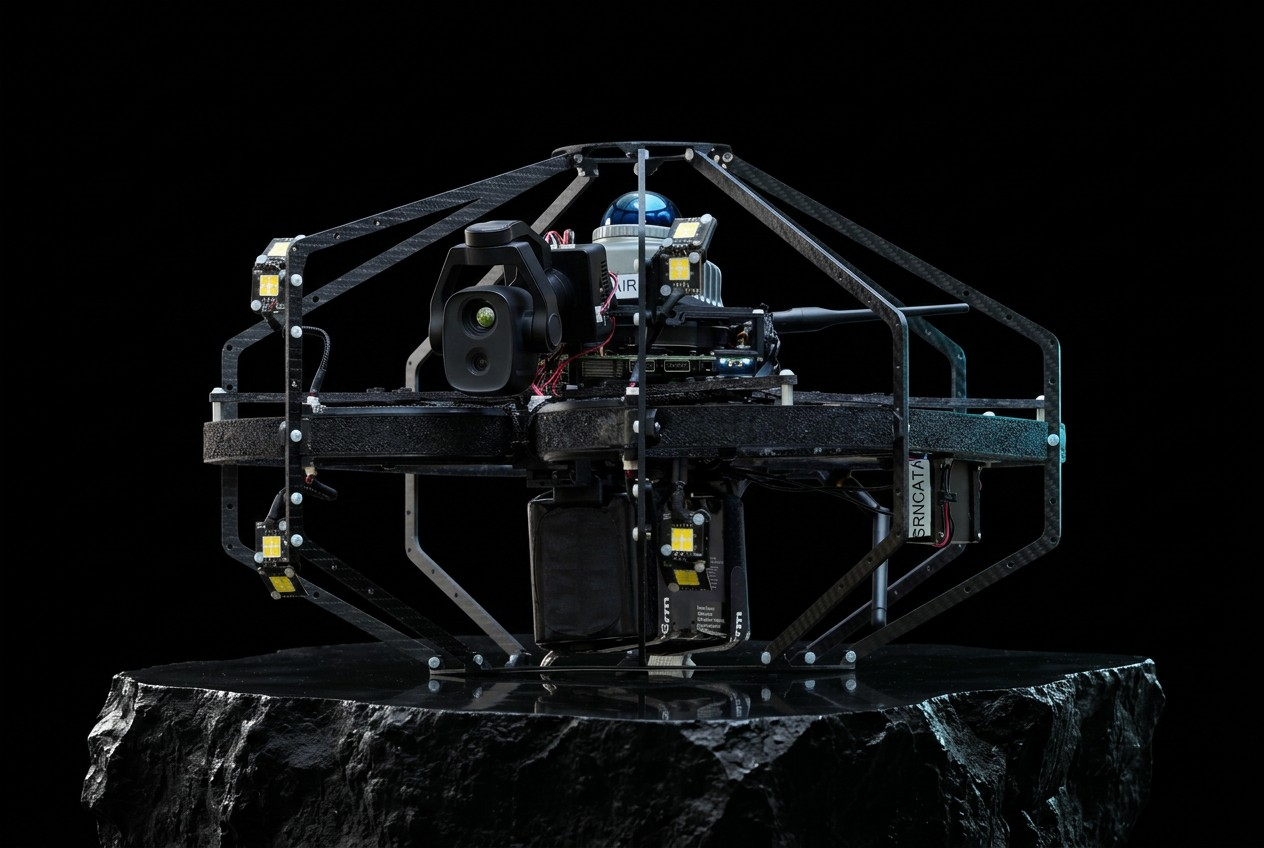
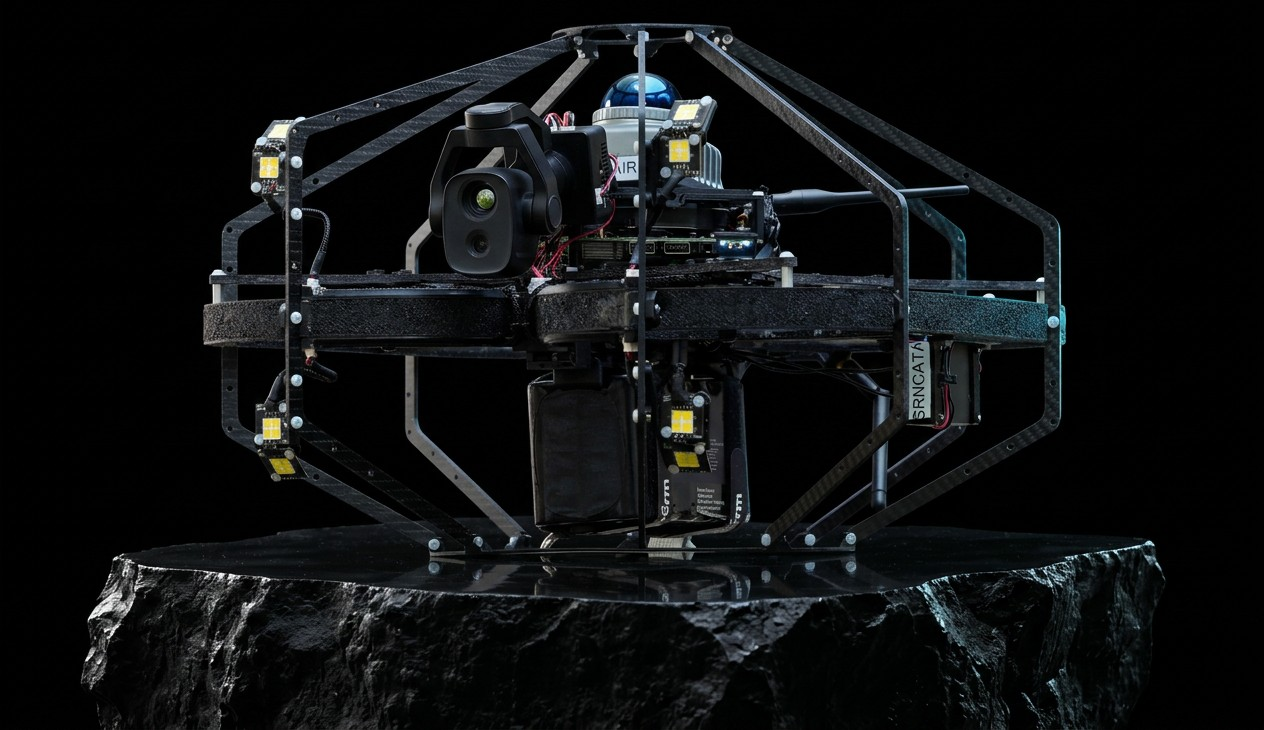
RoboAid LP: packshot oriznuty nad vrcholkem klece, dron vetsi
Fotka zepredu mela nad dronem 141 px cerne, oriznuto na 1264x730 tesne
nad spickou klece. Dron je 78 vw (max 1120 px), vyska stropovana na
67 vh; vety vyjizdeji 31 vh nad stred, aby se nedotykaly horni hrany
okna ani klece.

Changed region(s): [[0.0617, 0.0301, 0.9256, 0.9945]]

diff --git a/public/nahledy/roboaid-x4k7/index.html b/public/nahledy/roboaid-x4k7/index.html
@@ -88,13 +88,13 @@
      průhlednost počítá JS z postupu scrollu, takže to jede plynule s prstem, ne skokem. */
   #slib{padding:0;background:#000;height:480vh}
   #slib .stick{position:sticky;top:0;height:100vh;overflow:hidden}
-  /* Kámen sedí spodní hranou přesně na spodní hraně okna (fotka končí hranou kamene,
-     změřeno: poslední řádek obrázku je kámen). Výška je stropovaná na 66 vh, aby nad
-     dronem zbylo místo pro větu i na nízkém displeji. */
-  #slib .dron{position:absolute;left:50%;bottom:0;width:min(64vw,900px,calc(66vh * 1.49));height:auto;
+  /* Kámen sedí spodní hranou přesně na spodní hraně okna (fotka končí hranou kamene)
+     a nahoře je oříznutá těsně nad vrcholkem klece (1264×730). Výška je stropovaná na
+     67 vh, aby nad dronem zbylo místo pro větu i na nízkém displeji. */
+  #slib .dron{position:absolute;left:50%;bottom:0;width:min(78vw,1120px,calc(67vh * 1.731));height:auto;
     transform:translateX(-50%);z-index:2;pointer-events:none;
     filter:drop-shadow(0 30px 60px rgba(0,0,0,.85))}
-  #slib .stick .ph{position:absolute;left:50%;bottom:0;width:min(64vw,900px,calc(66vh * 1.49));aspect-ratio:3/2;min-height:0;
+  #slib .stick .ph{position:absolute;left:50%;bottom:0;width:min(78vw,1120px,calc(67vh * 1.731));aspect-ratio:1264/730;min-height:0;
     transform:translateX(-50%);z-index:2}
   #slib .veta{position:absolute;left:50%;top:50%;width:min(92vw,1100px);transform:translate(-50%,-50%);
     text-align:center;z-index:1;opacity:0;will-change:transform,opacity;pointer-events:none}
@@ -198,7 +198,7 @@
     .dlaz{grid-template-columns:1fr 1fr}
     .otazky li{grid-template-columns:44px 1fr;}
     .otazky .stav{grid-column:2}
-    #slib .dron{width:min(96vw,calc(60vh * 1.49))}
+    #slib .dron{width:min(96vw,calc(62vh * 1.731))}
     .osoba{grid-template-columns:96px 1fr}
   }
 
@@ -1077,7 +1077,7 @@
         // dráha: zpoza dronu (střed) nahoru nad něj, pak dál a pryč
         // vyjede nad dron (34 vh), tam chvíli stojí, pak ještě kousek povyjede a zmizí
         // dřív, než ho ořízne horní hrana okna
-        const up = t < 0.55 ? easeOut(clamp(t/0.55,0,1)) * 34 : 34 + (t-0.55)/0.45 * 10;   // ve vh
+        const up = t < 0.55 ? easeOut(clamp(t/0.55,0,1)) * 31 : 31 + (t-0.55)/0.45 * 8;   // ve vh
         const op = smooth(0.08, 0.40, t) * (1 - smooth(0.70, 0.92, t));
         const sc = 0.9 + 0.1*easeOut(clamp(t/0.55,0,1));
         el.style.opacity = op.toFixed(3);
